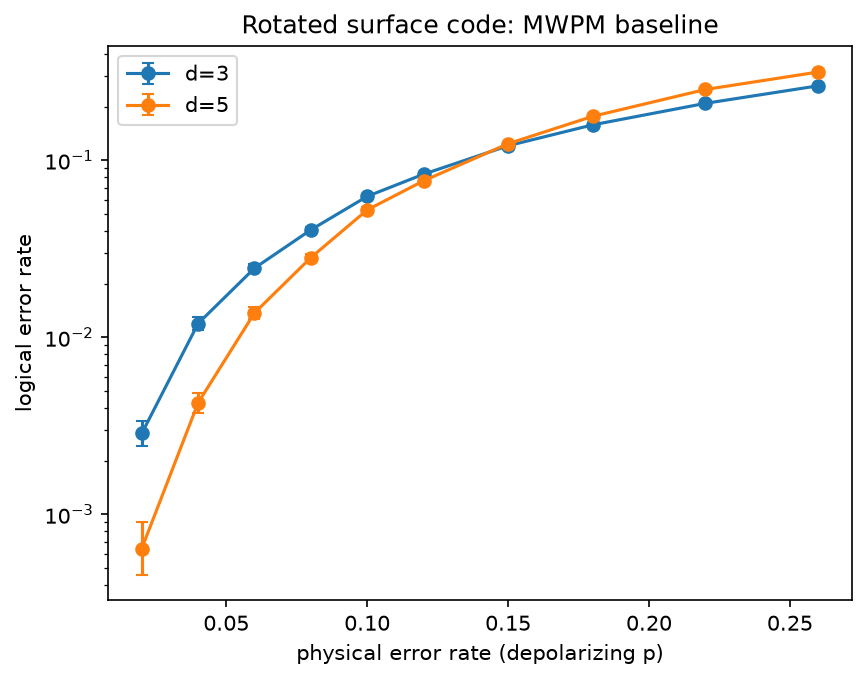
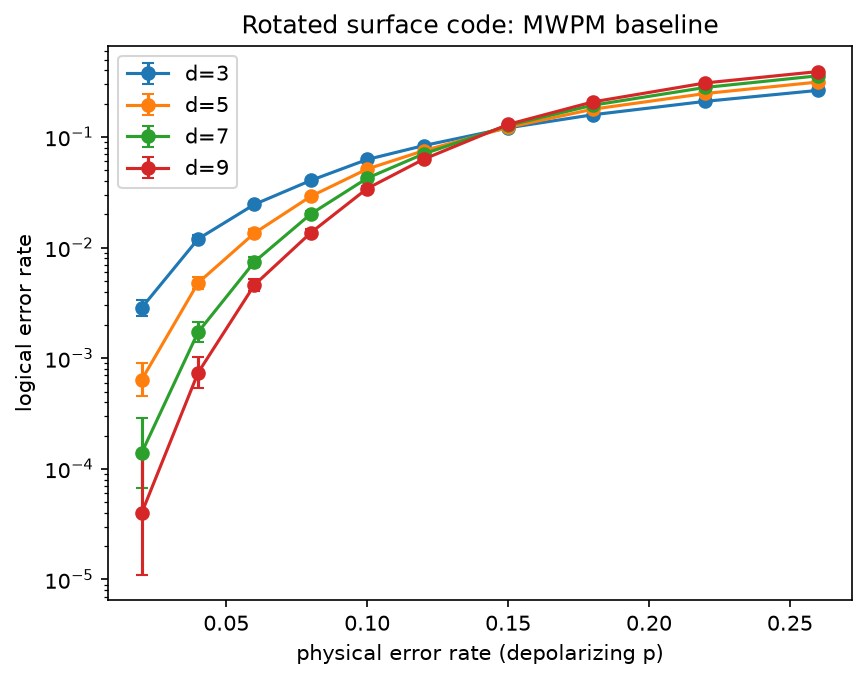
Phase 5: extend code-capacity MWPM baseline to d=3,5,7,9
Code-capacity decoding graphs stay small even at d=9 (80 detectors), so
more distances are cheap. All 4 curves cross within p ~ 0.135-0.147 of
each other, a meaningfully stronger threshold signal than the original
2-distance (d=3,5) estimate.

diff --git a/README.md b/README.md
@@ -18,17 +18,19 @@ MWPM decoding is provably optimal and reduces to majority vote). This gives
 confidence the pipeline is correct before moving to the surface code, where
 no simple closed form exists.
 
-**Phase 2 complete**: MWPM baseline on the rotated surface code (d=3, d=5)
-under code-capacity-style depolarizing noise. Logical error rate vs.
-physical error rate, with Wilson-interval error bars:
+**Phase 2 complete**: MWPM baseline on the rotated surface code (d=3, 5, 7,
+9 -- extended from just d=3,5 in Phase 5, since code-capacity graphs stay
+small even at d=9) under code-capacity-style depolarizing noise. Logical
+error rate vs. physical error rate, with Wilson-interval error bars:
 
-![MWPM baseline: logical error rate vs physical error rate for d=3 and d=5](experiments/results/phase2_mwpm_sweep.png)
+![MWPM baseline: logical error rate vs physical error rate for d=3,5,7,9](experiments/results/phase2_mwpm_sweep.png)
 
-The d=3/d=5 curves cross at p ~ 0.14 -- below that, the larger code
-outperforms the smaller one (as expected below threshold); above it, the
-ordering flips. This crossing-point estimate is a quick visual-threshold
-check, not a rigorous finite-size-scaling fit (more distances/shots needed
-for that -- future work).
+All 4 curves cross close to the same point, p ~ 0.135-0.147 depending on
+which adjacent pair you look at -- below that, larger codes outperform
+smaller ones (as expected below threshold); above it, the ordering flips.
+This crossing-point estimate is a quick visual-threshold check, not a
+rigorous finite-size-scaling fit, but 4 distances agreeing this closely is
+a meaningfully stronger signal than the original 2-distance estimate.
 
 Reproduce: `uv run qecdecoder sweep experiments/configs/phase2_mwpm_sweep.yaml --name phase2_mwpm_sweep`
 
